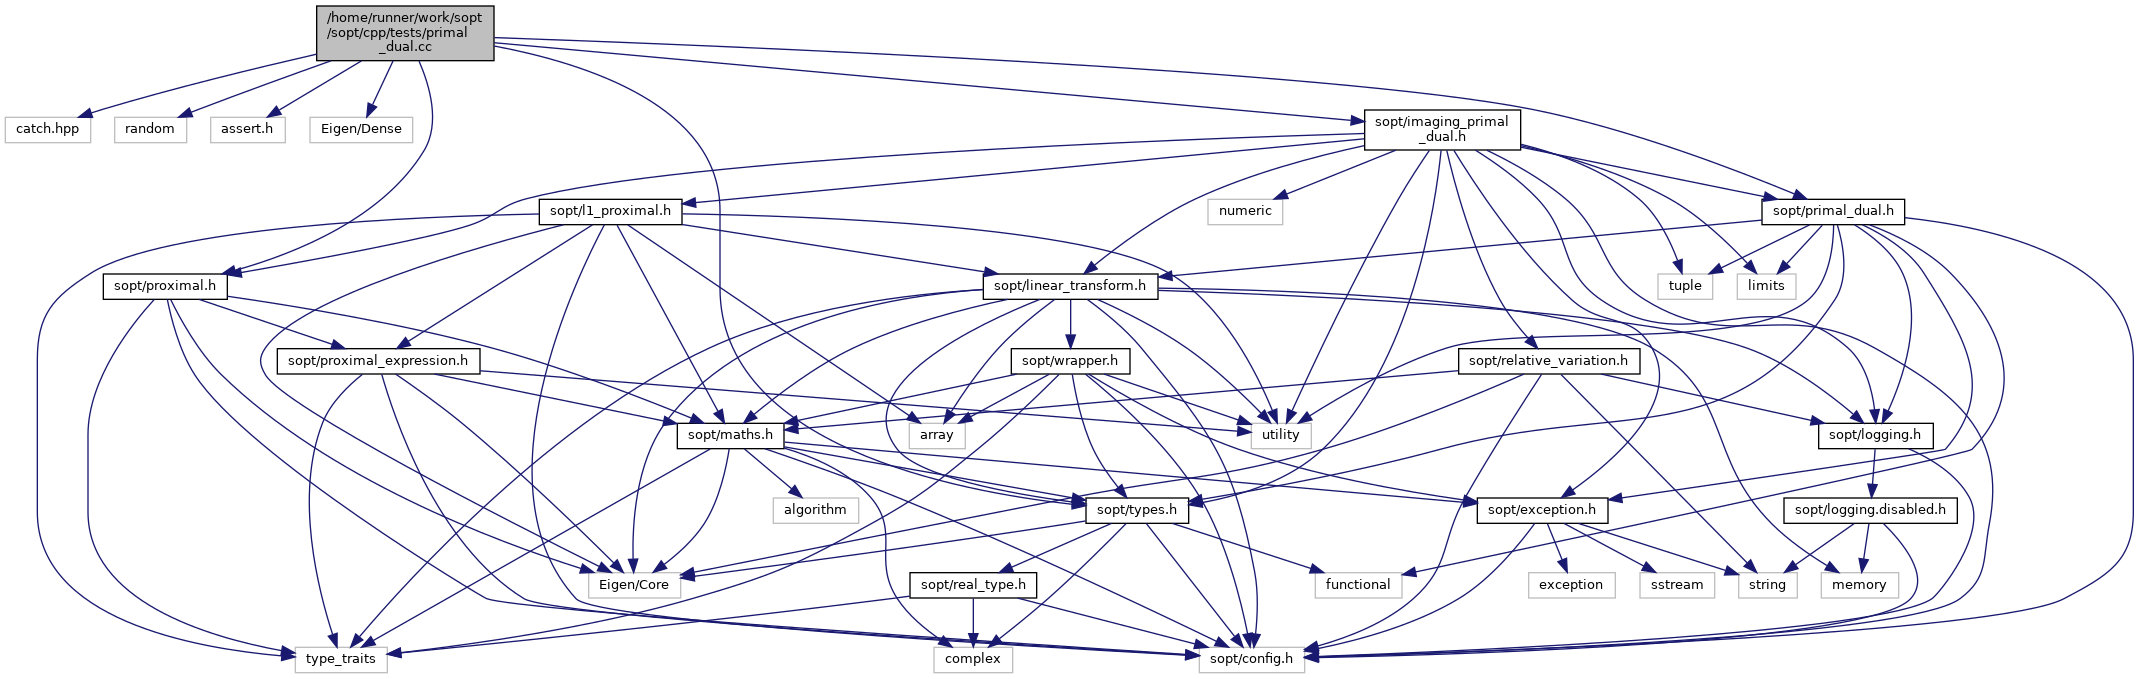
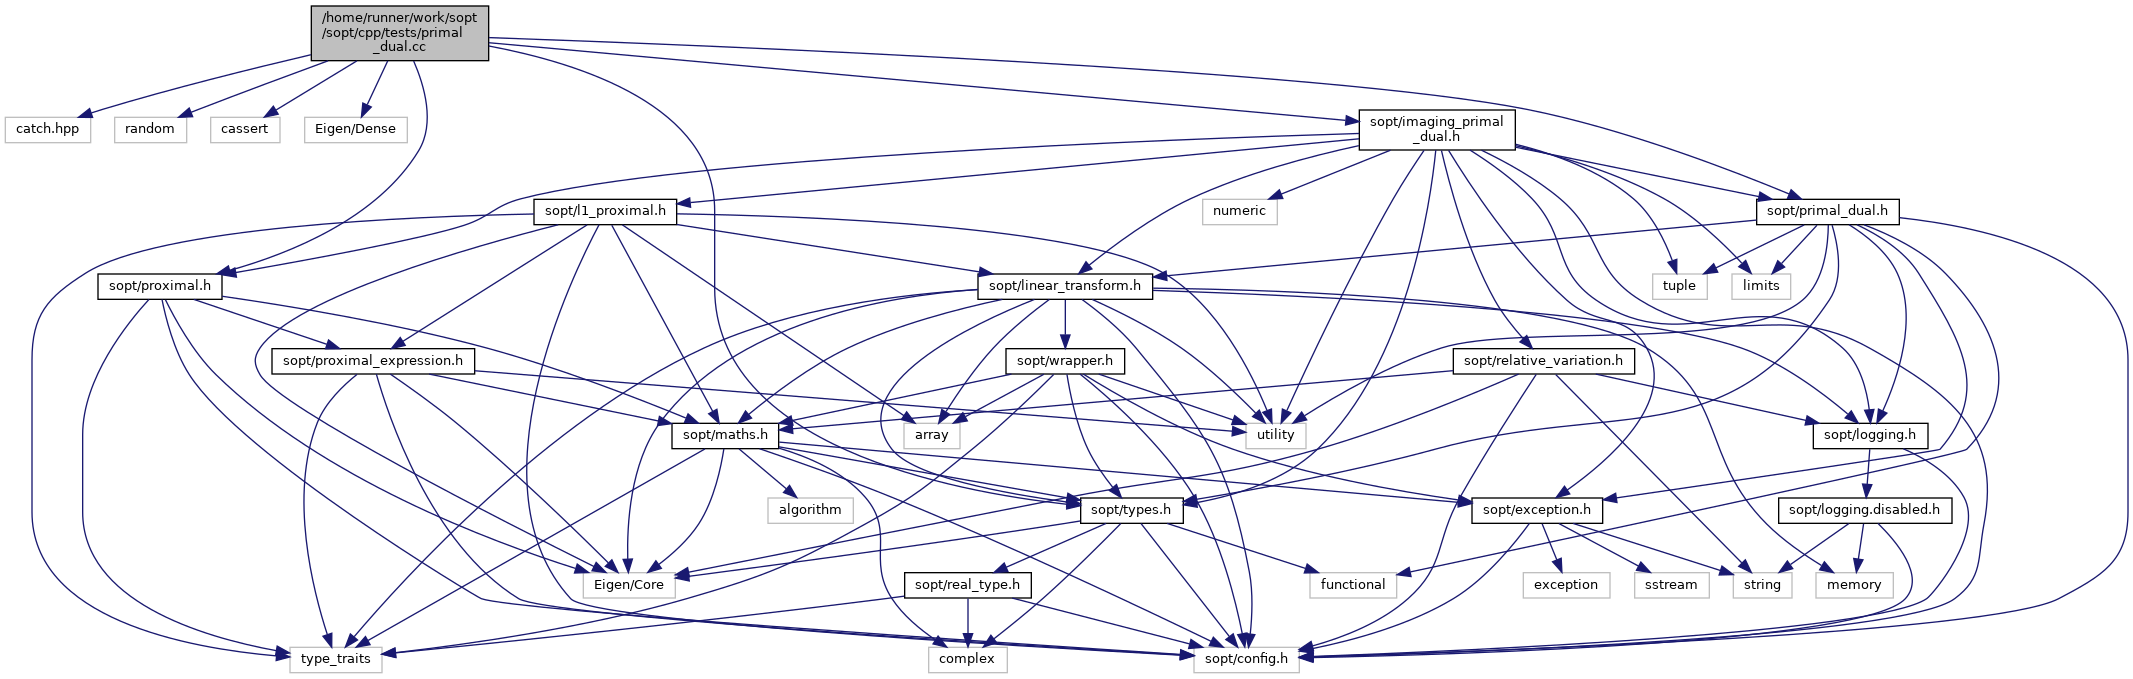
Deploying to gh-pages from @ astro-informatics/sopt@e159bda260ad46d41a68f9034339761537736e70 🚀

diff --git a/primal__dual_8cc.html b/primal__dual_8cc.html
@@ -86,7 +86,7 @@ $(function() {
 <div class="contents">
 <div class="textblock"><code>#include &lt;catch.hpp&gt;</code><br />
 <code>#include &lt;random&gt;</code><br />
-<code>#include &lt;assert.h&gt;</code><br />
+<code>#include &lt;cassert&gt;</code><br />
 <code>#include &lt;Eigen/Dense&gt;</code><br />
 <code>#include &quot;<a class="el" href="imaging__primal__dual_8h_source.html">sopt/imaging_primal_dual.h</a>&quot;</code><br />
 <code>#include &quot;<a class="el" href="primal__dual_8h_source.html">sopt/primal_dual.h</a>&quot;</code><br />
@@ -99,40 +99,40 @@ $(function() {
 <div id="dynsection-0-content" class="dyncontent" style="display:none;">
 <div class="center"><img src="primal__dual_8cc__incl.png" border="0" usemap="#_2home_2runner_2work_2sopt_2sopt_2cpp_2tests_2primal__dual_8cc" alt=""/></div>
 <map name="_2home_2runner_2work_2sopt_2sopt_2cpp_2tests_2primal__dual_8cc" id="_2home_2runner_2work_2sopt_2sopt_2cpp_2tests_2primal__dual_8cc">
-<area shape="rect" title=" " alt="" coords="317,5,494,61"/>
+<area shape="rect" title=" " alt="" coords="311,5,489,61"/>
 <area shape="rect" title=" " alt="" coords="5,117,91,143"/>
 <area shape="rect" title=" " alt="" coords="115,117,187,143"/>
-<area shape="rect" title=" " alt="" coords="211,117,285,143"/>
-<area shape="rect" title=" " alt="" coords="310,117,413,143"/>
-<area shape="rect" href="imaging__primal__dual_8h.html" title=" " alt="" coords="1365,109,1521,151"/>
-<area shape="rect" href="types_8h.html" title=" " alt="" coords="1086,497,1189,524"/>
-<area shape="rect" href="primal__dual_8h.html" title=" " alt="" coords="1762,199,1905,225"/>
-<area shape="rect" href="proximal_8h.html" title=" " alt="" coords="103,273,227,300"/>
-<area shape="rect" title=" " alt="" coords="1199,647,1305,673"/>
-<area shape="rect" title=" " alt="" coords="1737,273,1796,300"/>
-<area shape="rect" title=" " alt="" coords="1208,199,1283,225"/>
-<area shape="rect" title=" " alt="" coords="1658,273,1713,300"/>
-<area shape="rect" title=" " alt="" coords="1251,423,1311,449"/>
-<area shape="rect" href="exception_8h.html" title=" " alt="" coords="1477,497,1608,524"/>
-<area shape="rect" href="l1__proximal_8h.html" title=" " alt="" coords="539,199,682,225"/>
-<area shape="rect" href="linear__transform_8h.html" title=" " alt="" coords="983,273,1158,300"/>
-<area shape="rect" href="logging_8h.html" title=" " alt="" coords="1819,423,1933,449"/>
-<area shape="rect" href="relative__variation_8h.html" title=" " alt="" coords="1459,348,1640,375"/>
-<area shape="rect" title=" " alt="" coords="1529,572,1615,599"/>
-<area shape="rect" title=" " alt="" coords="1640,572,1715,599"/>
-<area shape="rect" title=" " alt="" coords="1739,572,1797,599"/>
-<area shape="rect" title=" " alt="" coords="909,423,965,449"/>
-<area shape="rect" title=" " alt="" coords="295,647,387,673"/>
-<area shape="rect" title=" " alt="" coords="589,572,681,599"/>
-<area shape="rect" href="maths_8h.html" title=" " alt="" coords="677,423,784,449"/>
-<area shape="rect" href="proximal__expression_8h.html" title=" " alt="" coords="277,348,480,375"/>
-<area shape="rect" title=" " alt="" coords="1821,572,1899,599"/>
-<area shape="rect" href="wrapper_8h.html" title=" " alt="" coords="1011,348,1130,375"/>
-<area shape="rect" href="logging_8disabled_8h.html" title=" " alt="" coords="1784,497,1957,524"/>
-<area shape="rect" title=" " alt="" coords="773,497,859,524"/>
-<area shape="rect" title=" " alt="" coords="934,647,1013,673"/>
-<area shape="rect" title=" " alt="" coords="1315,572,1402,599"/>
-<area shape="rect" href="real__type_8h.html" title=" " alt="" coords="910,572,1037,599"/>
+<area shape="rect" title=" " alt="" coords="211,117,280,143"/>
+<area shape="rect" title=" " alt="" coords="305,117,407,143"/>
+<area shape="rect" href="imaging__primal__dual_8h.html" title=" " alt="" coords="1359,109,1515,151"/>
+<area shape="rect" href="types_8h.html" title=" " alt="" coords="1081,497,1183,524"/>
+<area shape="rect" href="primal__dual_8h.html" title=" " alt="" coords="1757,199,1899,225"/>
+<area shape="rect" href="proximal_8h.html" title=" " alt="" coords="98,273,222,300"/>
+<area shape="rect" title=" " alt="" coords="1194,647,1299,673"/>
+<area shape="rect" title=" " alt="" coords="1732,273,1791,300"/>
+<area shape="rect" title=" " alt="" coords="1203,199,1277,225"/>
+<area shape="rect" title=" " alt="" coords="1653,273,1707,300"/>
+<area shape="rect" title=" " alt="" coords="1246,423,1306,449"/>
+<area shape="rect" href="exception_8h.html" title=" " alt="" coords="1472,497,1603,524"/>
+<area shape="rect" href="l1__proximal_8h.html" title=" " alt="" coords="534,199,677,225"/>
+<area shape="rect" href="linear__transform_8h.html" title=" " alt="" coords="978,273,1153,300"/>
+<area shape="rect" href="logging_8h.html" title=" " alt="" coords="1813,423,1928,449"/>
+<area shape="rect" href="relative__variation_8h.html" title=" " alt="" coords="1453,348,1635,375"/>
+<area shape="rect" title=" " alt="" coords="1523,572,1610,599"/>
+<area shape="rect" title=" " alt="" coords="1635,572,1709,599"/>
+<area shape="rect" title=" " alt="" coords="1733,572,1792,599"/>
+<area shape="rect" title=" " alt="" coords="904,423,960,449"/>
+<area shape="rect" title=" " alt="" coords="290,647,382,673"/>
+<area shape="rect" title=" " alt="" coords="583,572,675,599"/>
+<area shape="rect" href="maths_8h.html" title=" " alt="" coords="672,423,779,449"/>
+<area shape="rect" href="proximal__expression_8h.html" title=" " alt="" coords="272,348,475,375"/>
+<area shape="rect" title=" " alt="" coords="1816,572,1893,599"/>
+<area shape="rect" href="wrapper_8h.html" title=" " alt="" coords="1006,348,1125,375"/>
+<area shape="rect" href="logging_8disabled_8h.html" title=" " alt="" coords="1779,497,1952,524"/>
+<area shape="rect" title=" " alt="" coords="768,497,853,524"/>
+<area shape="rect" title=" " alt="" coords="929,647,1007,673"/>
+<area shape="rect" title=" " alt="" coords="1310,572,1397,599"/>
+<area shape="rect" href="real__type_8h.html" title=" " alt="" coords="905,572,1031,599"/>
 </map>
 </div>
 </div>

diff --git a/primal__dual_8cc_source.html b/primal__dual_8cc_source.html
@@ -82,7 +82,7 @@ $(function() {
 <a href="primal__dual_8cc.html">Go to the documentation of this file.</a><div class="fragment"><div class="line"><a name="l00001"></a><span class="lineno">    1</span>&#160;<span class="preprocessor">#include &lt;catch.hpp&gt;</span></div>
 <div class="line"><a name="l00002"></a><span class="lineno">    2</span>&#160;<span class="preprocessor">#include &lt;random&gt;</span></div>
 <div class="line"><a name="l00003"></a><span class="lineno">    3</span>&#160; </div>
-<div class="line"><a name="l00004"></a><span class="lineno">    4</span>&#160;<span class="preprocessor">#include &lt;assert.h&gt;</span></div>
+<div class="line"><a name="l00004"></a><span class="lineno">    4</span>&#160;<span class="preprocessor">#include &lt;cassert&gt;</span></div>
 <div class="line"><a name="l00005"></a><span class="lineno">    5</span>&#160; </div>
 <div class="line"><a name="l00006"></a><span class="lineno">    6</span>&#160;<span class="preprocessor">#include &lt;Eigen/Dense&gt;</span></div>
 <div class="line"><a name="l00007"></a><span class="lineno">    7</span>&#160; </div>
